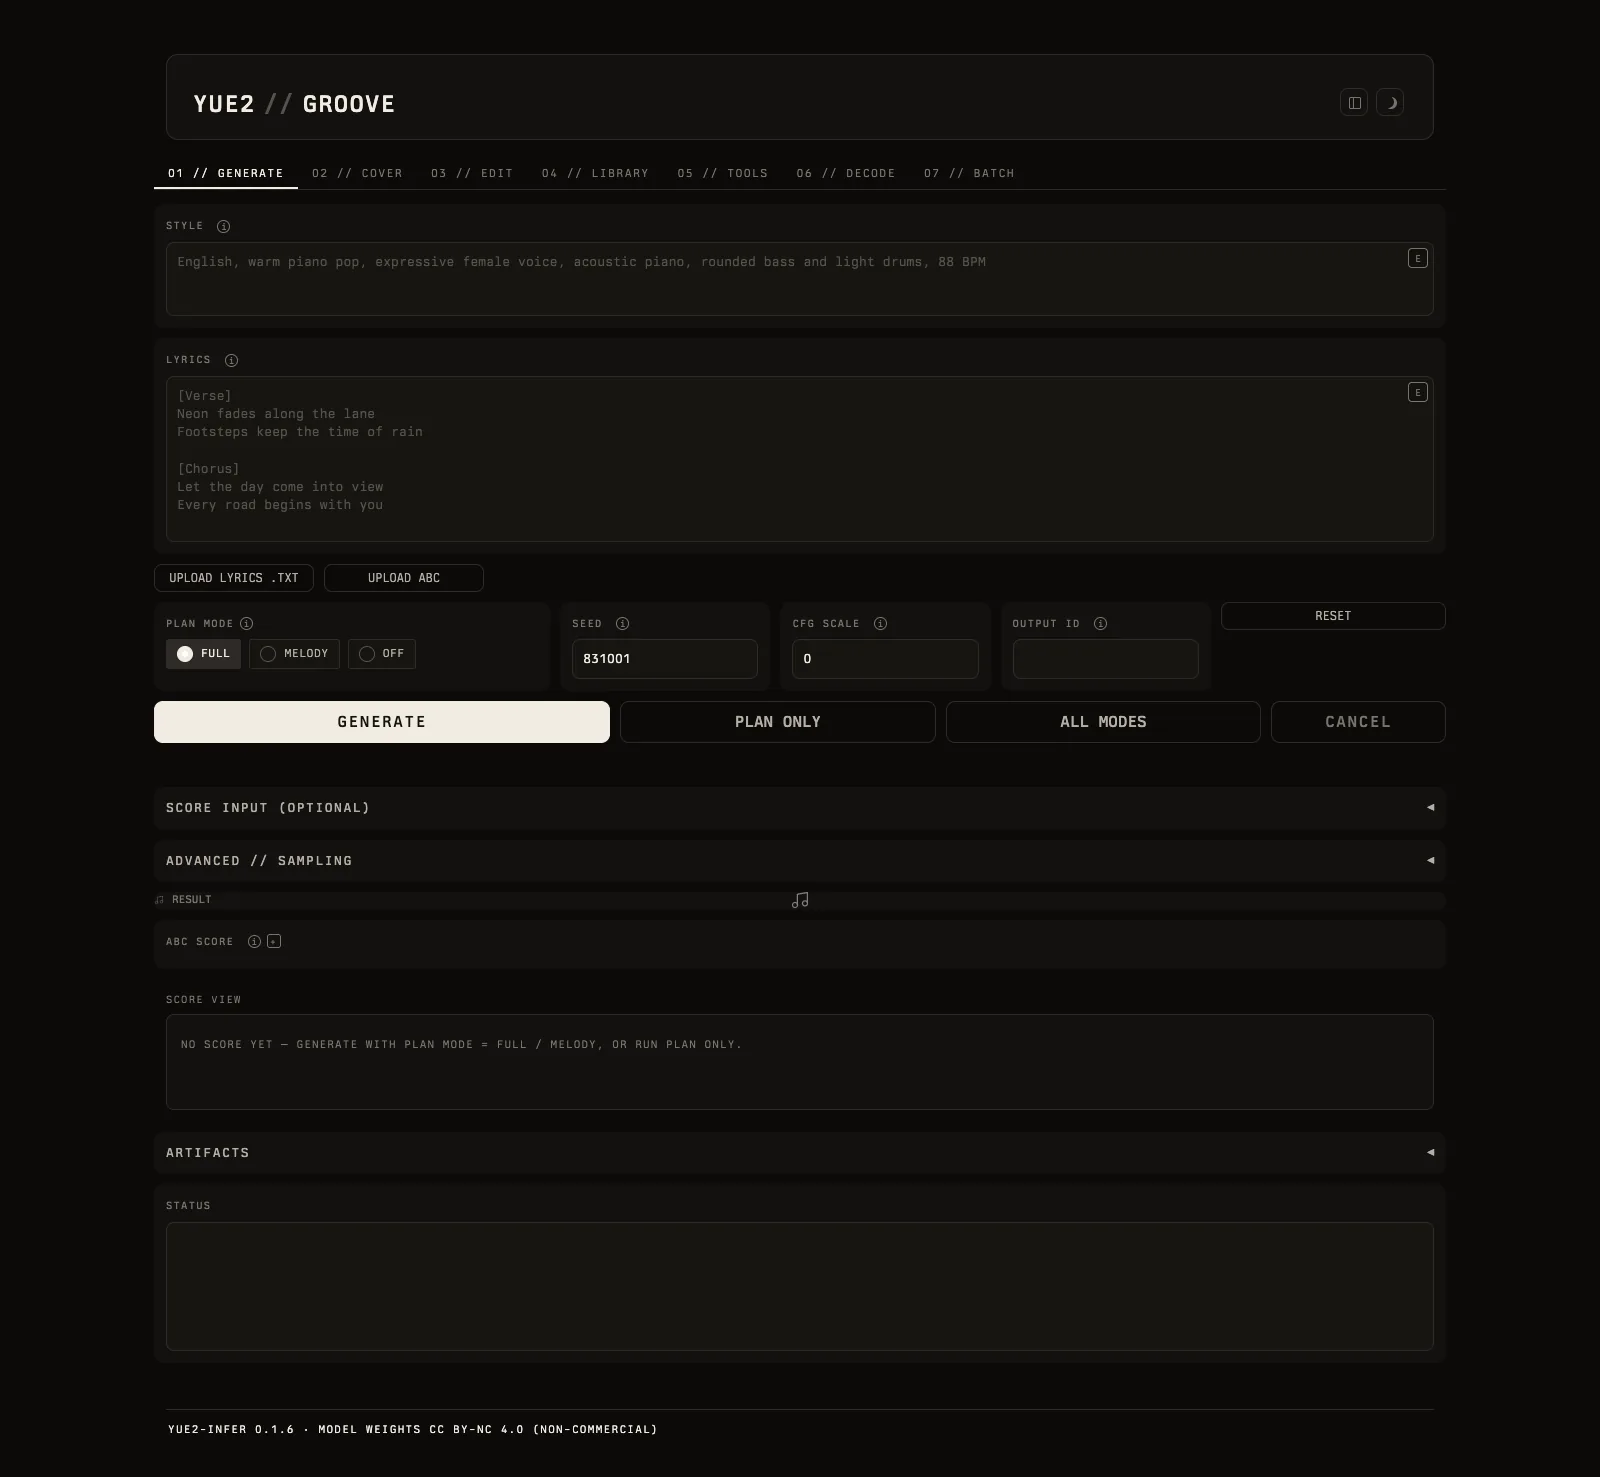
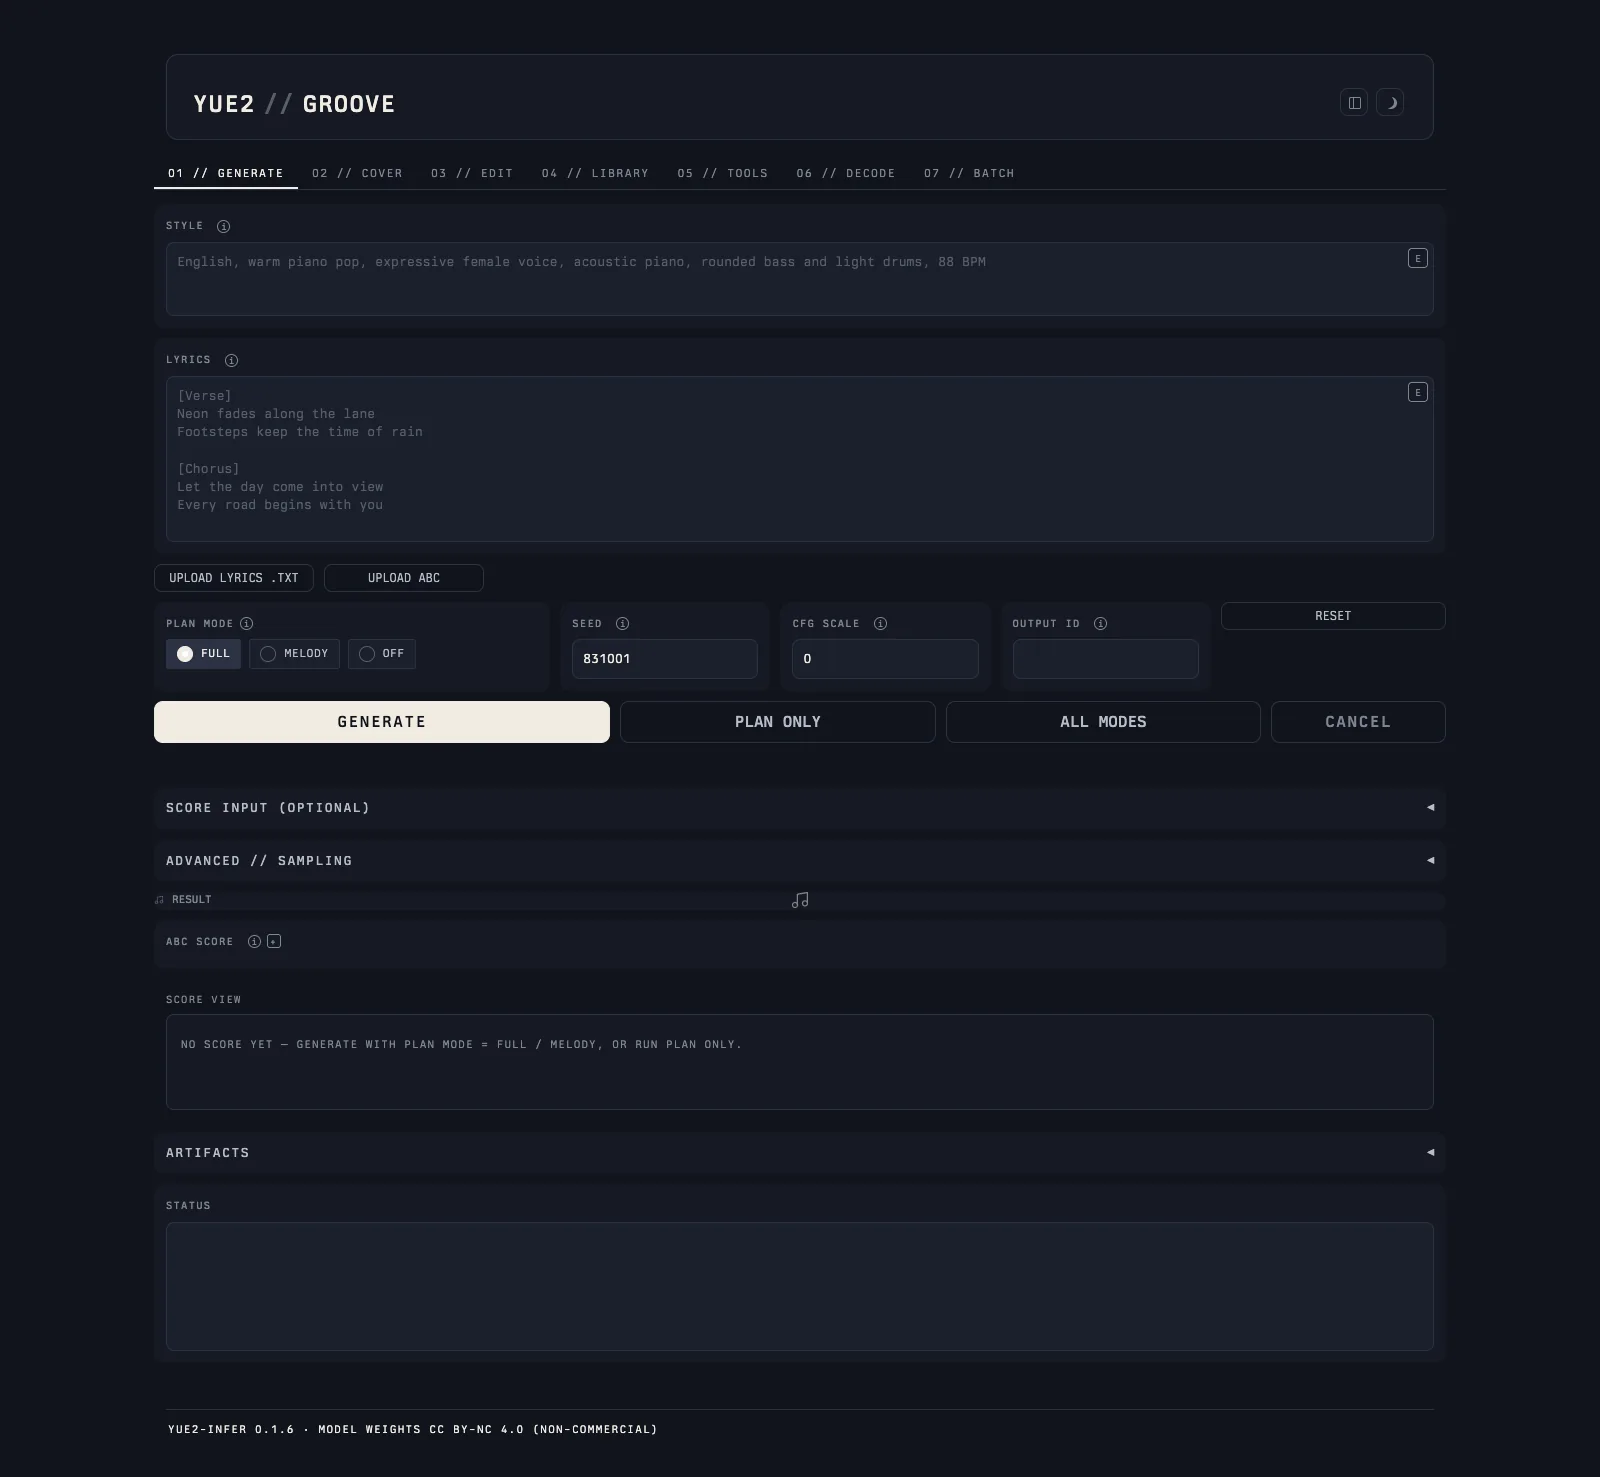
webui: cool dark scene (#11141C family) and matching bright controls
- Dark scene rebuilt around the requested #11141C ground: panels #161A24,
  wells #1B202C, lift #212736, strokes #2B3244/#667090, cool-grey secondary
  ink; ivory #F1ECE2 remains the primary ink/button colour, primary_text is
  now #11141C.
- Bright scene: the dark controls that used to be the warm #16140F — primary
  buttons, selected chips/rows, selected checkboxes, slider and loader — now
  share #11141C (hover #2B3244) so both scenes match.
- controls that used the ink as a fill now follow primary_fill (identical in
  the dark scene, the cool black in the bright scene).
- screenshots refreshed; theme tests assert both palettes and the control
  tokens.

diff --git a/yue2_groove/webui.py b/yue2_groove/webui.py
@@ -37,8 +37,8 @@ Usage:
   python -m yue2_groove --host 0.0.0.0 --auth user:pass   # LAN access (set a password)
   bash scripts/serve.sh start|stop|restart|status|log     # background service
 
-Visual language: Bearbone Design System v0.2 (warm near-black + ivory, 1px strokes, no
-shadows/gradients, monospace), with a dark and a bright scene.
+Visual language: Bearbone Design System v0.2 (cool #11141C ground family + ivory ink,
+1px strokes, no shadows/gradients, monospace), with a dark and a bright scene.
 
 Model weights are CC BY-NC 4.0 (non-commercial); this UI is not affiliated with the
 YuE2 authors.
@@ -1340,25 +1340,26 @@ def _request_texts(style, lyrics):
 
 
 # ─────────────────────── Bearbone DS v0.2, two scenes ───────────────────────
-# dark scene:   warm near-black #0B0A09 ground + ivory #F1ECE2 ink (never pure black/white).
-# bright scene: ivory #F1ECE2 ground + warm near-black #16140F ink (the v0.2 bright token).
+# dark scene:   cool #11141C ground family + ivory #F1ECE2 ink (never pure black/white).
+# bright scene: ivory #F1ECE2 ground + warm near-black #16140F ink; dark controls
+# (primary buttons, selected chips/checkboxes, sliders) share the #11141C family.
 # Shared grammar: 1px strokes, 10px panels, no shadows / gradients / glow, monospace, ops footer.
 
 FONT_STACK = ["Berkeley Mono", "Sarasa Mono SC", "JetBrains Mono", "SF Mono",
               "Noto Sans Mono CJK SC", "ui-monospace", "Menlo", "monospace"]
 
 DARK = {
-    "bg": "#0B0A09", "bg_panel": "#12110F", "bg_input": "#171512", "bg_lift": "#1C1916",
-    "fg": "#F1ECE2", "fg2": "#B5AEA2", "fg3": "#7A746A", "fg4": "#57524A",
-    "stroke": "#2E2B27", "stroke2": "#8C8477",
-    "primary_fill": "#F1ECE2", "primary_hover": "#FBF8F2", "primary_text": "#16140F",
+    "bg": "#11141C", "bg_panel": "#161A24", "bg_input": "#1B202C", "bg_lift": "#212736",
+    "fg": "#F1ECE2", "fg2": "#B6BCC8", "fg3": "#7E8593", "fg4": "#575E6B",
+    "stroke": "#2B3244", "stroke2": "#667090",
+    "primary_fill": "#F1ECE2", "primary_hover": "#FBF8F2", "primary_text": "#11141C",
 }
 
 BRIGHT = {
     "bg": "#F1ECE2", "bg_panel": "#F7F3EB", "bg_input": "#F7F3EB", "bg_lift": "#EAE4D8",
     "fg": "#16140F", "fg2": "#4A463F", "fg3": "#7A746A", "fg4": "#A69D8D",
     "stroke": "#C4BBA8", "stroke2": "#7E7462",
-    "primary_fill": "#16140F", "primary_hover": "#332E26", "primary_text": "#F1ECE2",
+    "primary_fill": "#11141C", "primary_hover": "#2B3244", "primary_text": "#F1ECE2",
 }
 
 
@@ -1447,10 +1448,10 @@ def _theme_values(p):
         "shadow_drop_lg": "none",
         "shadow_inset": "none",
         "checkbox_background_color": p["bg_input"],
-        "checkbox_background_color_selected": p["fg"],
+        "checkbox_background_color_selected": p["primary_fill"],
         "checkbox_background_color_hover": p["bg_lift"],
         "checkbox_border_color": p["fg4"],
-        "checkbox_border_color_selected": p["fg"],
+        "checkbox_border_color_selected": p["primary_fill"],
         "checkbox_border_width": "1px",
         "checkbox_border_radius": "3px",
         "checkbox_check": p["primary_text"],
@@ -1465,8 +1466,8 @@ def _theme_values(p):
         "checkbox_label_shadow": "none",
         "checkbox_label_shadow_hover": "none",
         "checkbox_label_shadow_active": "none",
-        "slider_color": p["fg"],
-        "loader_color": p["fg"],
+        "slider_color": p["primary_fill"],
+        "loader_color": p["primary_fill"],
         "stat_background_fill": p["bg_input"],
         "table_border_color": p["stroke"],
         "table_even_background_fill": p["bg_panel"],

diff --git a/tests/test_webui_theme.py b/tests/test_webui_theme.py
@@ -30,3 +30,20 @@ def test_theme_button_has_no_text_label(monkeypatch, tmp_path) -> None:
     button = next(c for c in demo.blocks.values()
                   if getattr(c, "elem_id", None) == "bb-theme-btn")
     assert button.value == ""
+
+
+def test_bright_dark_controls_share_the_cool_black() -> None:
+    """The bright scene's dark controls must not fall back to the old warm black."""
+    values = webui._theme_values(webui.BRIGHT)
+    assert webui.BRIGHT["primary_fill"] == "#11141C"
+    for key in ("button_primary_background_fill", "checkbox_background_color_selected",
+                "checkbox_border_color_selected", "slider_color", "loader_color"):
+        assert values[key] == "#11141C", key
+    assert webui._bb_vars(webui.BRIGHT)["--bb-chip-bg"] == "#11141C"   # selected chips/rows
+
+
+def test_dark_scene_unchanged_by_the_bright_controls() -> None:
+    values = webui._theme_values(webui.DARK)
+    assert webui.DARK["primary_fill"] == "#F1ECE2"        # ivory on the cool ground
+    assert values["button_primary_background_fill"] == "#F1ECE2"
+    assert webui._bb_vars(webui.DARK)["--bb-chip-bg"] != "#11141C"
